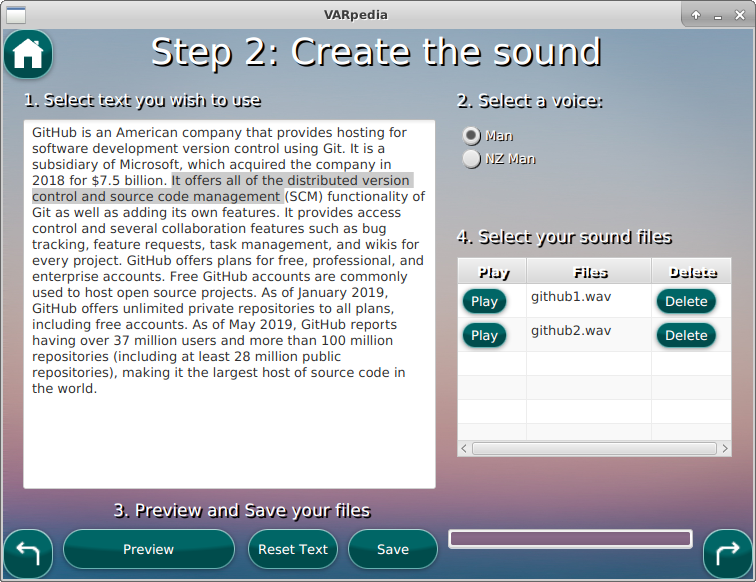
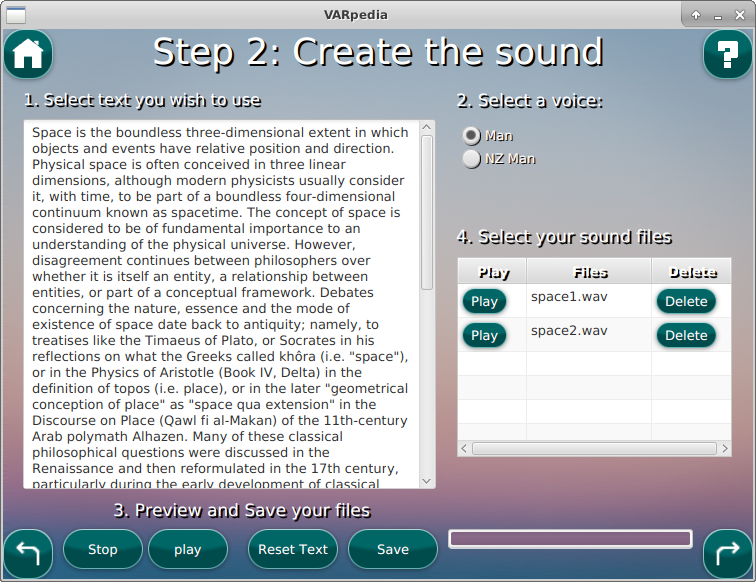
Add help buttons to textselect and search

diff --git a/Application/src/application/controllers/Search.java b/Application/src/application/controllers/Search.java
@@ -31,6 +31,7 @@ public class Search extends Controller implements Initializable{
 	@FXML private Button _menu;
 	@FXML private Button _back;
 	@FXML private Button _search;
+	@FXML private Button _help;
 
 	@FXML private Label _lastTerm;
 	@FXML private Label _errorMessage;
@@ -101,6 +102,11 @@ public class Search extends Controller implements Initializable{
 			_wikitBG.cancel();
 		}
 		switchTo(_back.getScene(), getClass().getResource(_PATH+"Menu.fxml"));
+	}
+	
+	@FXML
+	private void handleHelp() {
+		// TODO implement help for Search
 	}
 
 	@FXML

diff --git a/Application/src/application/controllers/TextSelect.java b/Application/src/application/controllers/TextSelect.java
@@ -58,6 +58,7 @@ public class TextSelect extends Controller implements Initializable{
 	@FXML private Button _menu;
 	@FXML private Button _back;
 	@FXML private Button _next;
+	@FXML private Button _help;
 	@FXML private Button _preview;
 	@FXML private Button _save;
 	@FXML private Button _reset;
@@ -238,6 +239,11 @@ public class TextSelect extends Controller implements Initializable{
 		} else {
 			;
 		}
+	}
+	
+	@FXML
+	private void handleHelp() {
+		//TODO implement help screen for TextSelect
 	}
 
 	@FXML
